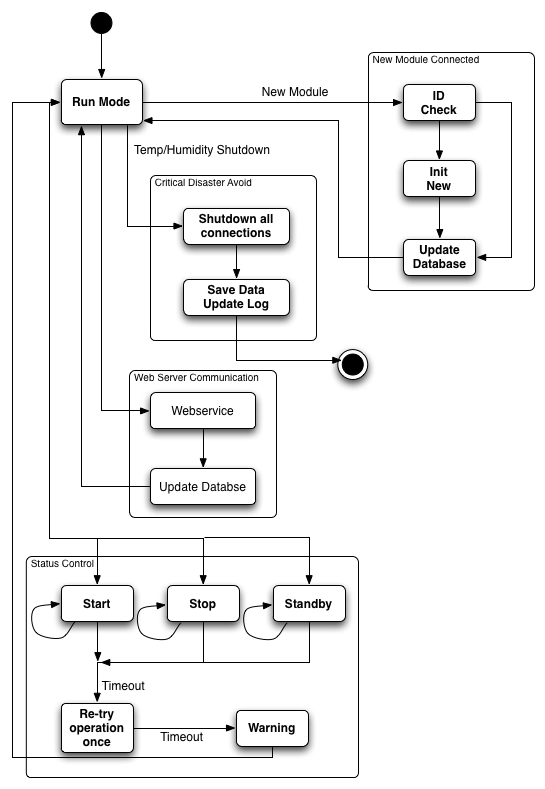
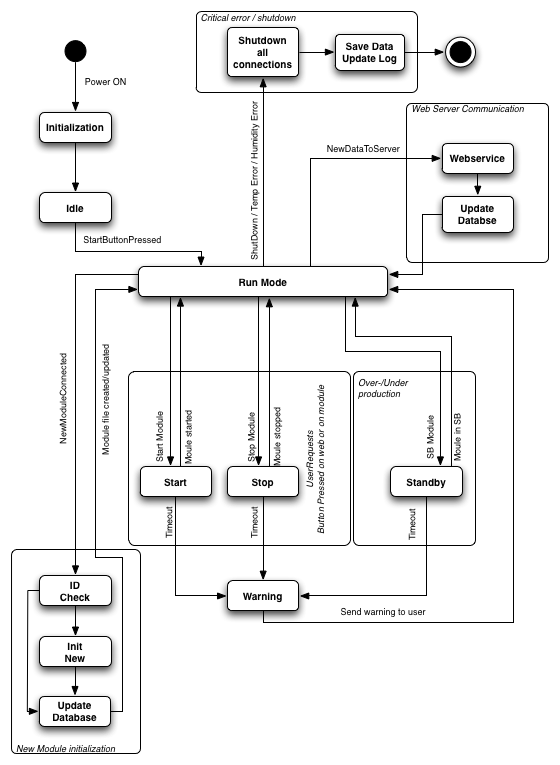
statemachine updated + small changes according to kk and moj.

diff --git a/content/launch_phase.tex b/content/launch_phase.tex
@@ -2,6 +2,7 @@
 \section{Launch Phase}
 \subsection{General Analysis}
 	\subsubsection{Requirements	 Analysis}
+		Remember to define the max/min temp+humidity (ex. minimum temp 0deg)
 		\begin{itemize}
 			\item Functional Requirements ("system shall do 'requirement' ")
 			\item Non-functional Requirements ("system shall be 'requirement' ")
@@ -76,6 +77,7 @@
 				\item \textbf{Consumers} Units that consumes power (e.g. light, washing machine, electric car)
 				\item \textbf{Producers:} Modules that delivers energy to the hub (e.g. Wind-turbine, photovoltaic-cells)
 				\item \textbf{Storage:} Modules that both consumes when the system over produces and "produces" (gives energy to the consumers) when needed (e.g. battery, air compressor). 
+				\item \textbf{Grid:} The grid is used to start up the whole system. It is also used if producing modules does not produce enough energy to the consumers.
 				\item \textbf{Temperature:} Unit that measures the outdoor temperature. If the temperature is too high or low it might damage the hardware.
 				\item \textbf{Humidity:} Unit that measures the humidity where the system is places. If the humidity is too high the hardware might be damaged.
 			\end{itemize}
@@ -96,21 +98,21 @@
 				\end{itemize}
 				\textbf{Table with all the above candidates and event combined:}
 				\begin{table}[h!]
-					\begin{tabular}{| r | c | c | c | c | c |}
+					\begin{tabular}{| r | c | c | c | c | c | c |}
 					\hline
-					~ & Consumers & Producers & Storage & Temp & Humidity \\ \hline
-					TempBellowLimit & ~ & ~ & ~ & X & ~ \\ \hline
-					TempAboveLimit & ~ & ~ & ~ & X & ~ \\ \hline
-					HumidityAboveLimit & ~ & ~ & ~ & ~ & X \\ \hline
-					InitModule & X & X & X & ~ & ~ \\ \hline
-					StartModule & X & X & X & ~ & ~ \\ \hline
-					StopModule & X & X & X & ~ & ~ \\ \hline
-					StandbyModule & ~ & X & X & ~ & ~ \\ \hline
-					EnergyAboveLimit & ~ & X & ~ & ~ & ~ \\ \hline
-					EnergyBelowLimit & ~ & X & ~ & ~ & ~ \\ \hline
-					CreateModuleLogFile & ~ & X & X & ~ & ~ \\ \hline
-					LoadModuleLogFile & ~ & X & X & ~ & ~ \\ \hline
-					UpdateModuleLogFile & ~ & X & X & ~ & ~ \\ \hline
+					~ & Consumers & Producers & Storage & Grid &Temp & Humidity \\ \hline
+					TempBellowLimit & ~ & ~ & ~ & ~ & X & ~ \\ \hline
+					TempAboveLimit & ~ & ~ & ~ & ~ & X & ~ \\ \hline
+					HumidityAboveLimit & ~ & ~ & ~ & ~ & ~ & X \\ \hline
+					InitModule & X & X & X & ~ & ~ & ~ \\ \hline
+					StartModule & X & X & X & X & ~ & ~ \\ \hline
+					StopModule & X & X & X & ~ & ~ & ~ \\ \hline
+					StandbyModule & ~ & X & X & X & ~ & ~ \\ \hline
+					EnergyAboveLimit & ~ & X & ~ & X & ~ & ~ \\ \hline
+					EnergyBelowLimit & ~ & X & ~ & X & ~ & ~ \\ \hline
+					CreateModuleLogFile & ~ & X & X & ~ & ~ & ~ \\ \hline
+					LoadModuleLogFile & ~ & X & X & ~ & ~ & ~ \\ \hline
+					UpdateModuleLogFile & ~ & X & X & ~ & ~ & ~ \\ \hline
 					\end{tabular}
 				\end{table}
 			\newpage
@@ -342,8 +344,13 @@
 		 	\end{centering}
 		\end{figure}	
 \subsection{Technical Platform}
-	A lot of technical stuffs. 
-	\subsubsection{Hardware Specifications}
-	\subsubsection{Software Specifications}
 
+	\subsubsection{Hardware Specifications}
+	Embedded Artists LPC2478-32 Developer kit.
+	\\Temperature sensor
+	\\Humidity sensor
+	\\Power Line communication module
+	\subsubsection{Software Specifications}
+	What software things should be implemented ?
+	\\
 
